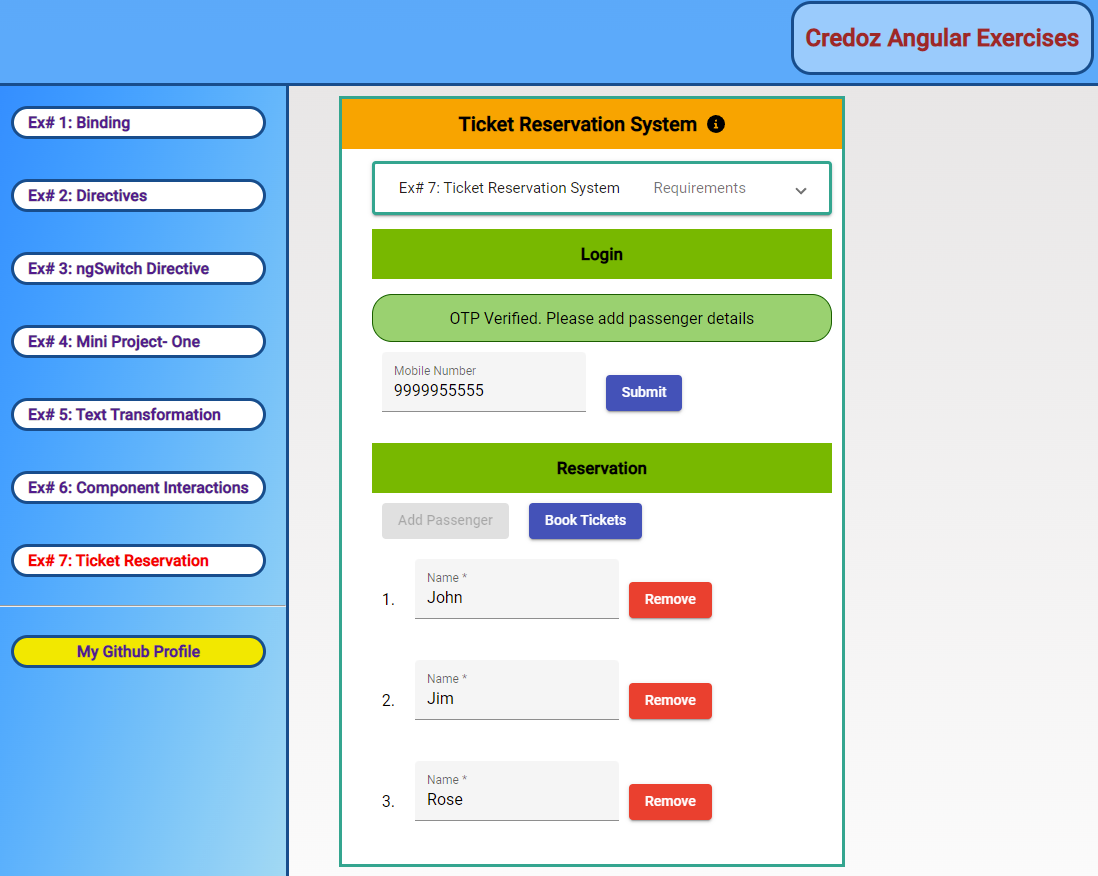
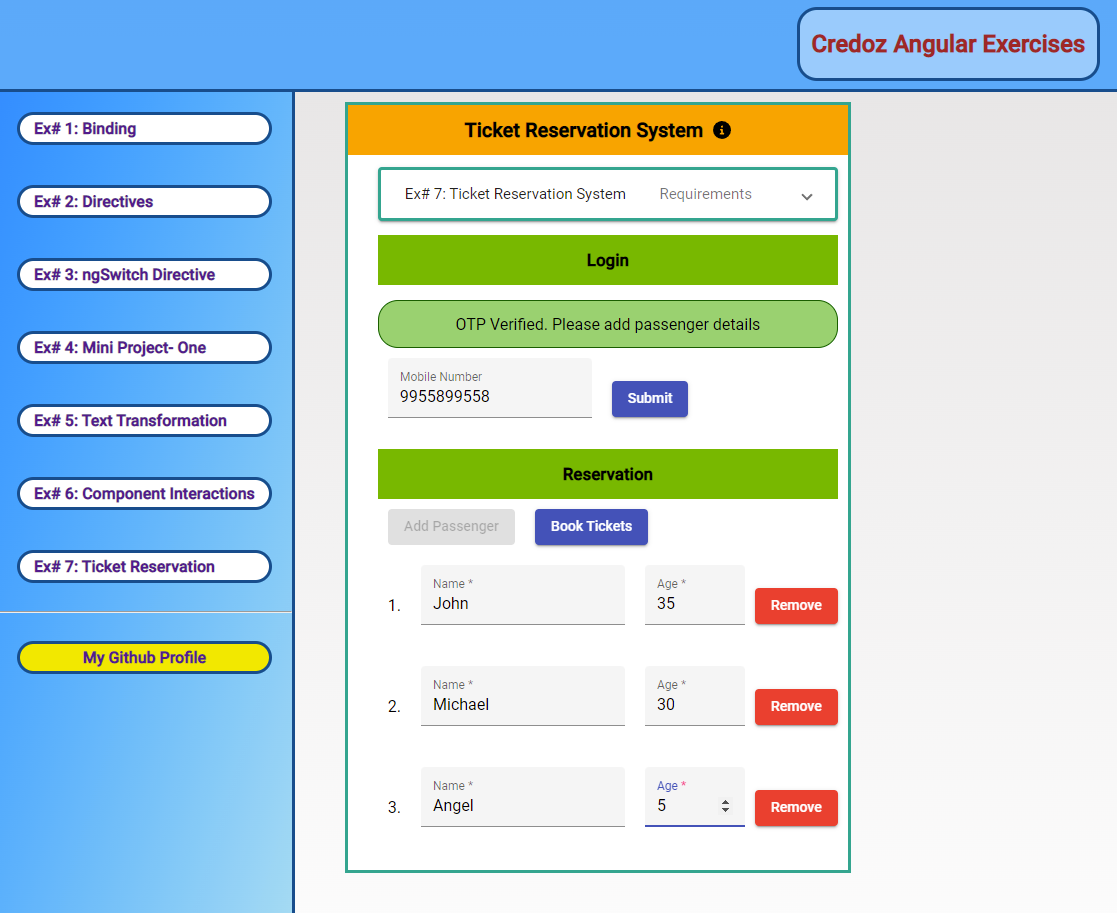
Completed the following -------------------------- 1. Ex7passengersComponent: Implemented FormBuilder service to accept age from the customer as a dynamic UI textbox control with the name. 2. README.md: Updated this document to reflect the changes to accept age from the customer with the screenshot 

diff --git a/src/app/codingexercises/ex7_ticketreservationsystem/ex7passengers/ex7passengers.component.ts b/src/app/codingexercises/ex7_ticketreservationsystem/ex7passengers/ex7passengers.component.ts
@@ -1,11 +1,10 @@
 import { Component, OnInit } from '@angular/core';
-import {
-  AbstractControl,
-  FormArray,
-  FormControl,
-  FormGroup,
-  Validators,
-} from '@angular/forms';
+import { FormArray, FormBuilder, FormGroup, Validators } from '@angular/forms';
+
+interface IPassengerDetails {
+  PassengerName: string;
+  PassengerAge: number;
+}
 
 @Component({
   selector: 'app-ex7passengers',
@@ -19,10 +18,12 @@ export class Ex7passengersComponent implements OnInit {
   errorMessage: string = '';
 
   bookingConfirmed: boolean;
-  ticketDetailsOfConfirmedPassengers: string[] = [];
+  ticketDetailsOfConfirmedPassengers: IPassengerDetails[] = [];
+
+  constructor(public formBuilder: FormBuilder) {}
 
   ngOnInit(): void {
-    this.passengerInputForm = new FormGroup({
+    this.passengerInputForm = this.formBuilder.group({
       passengerControls: new FormArray([]),
     });
   }
@@ -35,6 +36,7 @@ export class Ex7passengersComponent implements OnInit {
     this.userMessage = '';
     this.errorMessage = '';
     this.passengerInputForm.reset();
+    //Clears all the child FormGroup collection created by the FormBuilder.
     (<FormArray>this.passengerInputForm.get('passengerControls')).clear();
     this.ticketDetailsOfConfirmedPassengers = [];
   }
@@ -42,9 +44,9 @@ export class Ex7passengersComponent implements OnInit {
   /**
    * Returns the collection of controls added dynamically for adding passenger details.
    */
-  get getDynamicPassengerUIControls(): AbstractControl[] {
+  get passengerFormGroupCollection(): FormGroup[] {
     return (<FormArray>this.passengerInputForm.get('passengerControls'))
-      .controls;
+      .controls as FormGroup[];
   }
 
   /**
@@ -52,13 +54,15 @@ export class Ex7passengersComponent implements OnInit {
    */
   onPassengerAddClick() {
     this.errorMessage = '';
-    if (this.getDynamicPassengerUIControls.length <= 2) {
-      let dynamicNameControl = new FormControl(null, Validators.required);
+    if (this.passengerFormGroupCollection.length <= 2) {
       (<FormArray>this.passengerInputForm.get('passengerControls')).push(
-        dynamicNameControl
+        this.formBuilder.group({
+          dynPassengerName: ['', Validators.required],
+          dynAge: ['', Validators.required],
+        })
       );
     }
-    if (this.getDynamicPassengerUIControls.length == 3)
+    if (this.passengerFormGroupCollection.length == 3)
       this.errorMessage = 'Booking limited to 3 passengers per ticket.';
   }
 
@@ -74,9 +78,13 @@ export class Ex7passengersComponent implements OnInit {
       this.userMessage = 'Reservation confirmed. Ticket details below.';
       this.bookingConfirmed = true;
 
-      (this.passengerInputForm.value['passengerControls'] as string[]).forEach(
-        (passengerName) => {
-          this.ticketDetailsOfConfirmedPassengers.push(passengerName);
+      (this.passengerInputForm.value['passengerControls'] as any[]).forEach(
+        (formGroupData) => {
+          let passengerInformation: IPassengerDetails = {
+            PassengerName: formGroupData['dynPassengerName'],
+            PassengerAge: formGroupData['dynAge'],
+          };
+          this.ticketDetailsOfConfirmedPassengers.push(passengerInformation);
         }
       );
       this.passengerInputForm.reset();
@@ -105,10 +113,11 @@ export class Ex7passengersComponent implements OnInit {
 
   /**
    * Dynamic textbox event that is fired this control looses focus.
+   * @param dynamicFormGroup Each child FormGroup reference holding the name and the age textbox controls.
    */
-  onDynamicPassengerTextboxBlurEvent() {
+  onDynamicPassengerTextboxBlurEvent(dynamicFormGroup: FormGroup) {
     this.errorMessage = '';
-    if (this.passengerInputForm.invalid)
+    if (dynamicFormGroup.invalid)
       this.errorMessage = 'Please provide one more more passenger details';
   }
 }

diff --git a/src/app/codingexercises/ex7_ticketreservationsystem/ex7passengers/ex7passengers.component.html b/src/app/codingexercises/ex7_ticketreservationsystem/ex7passengers/ex7passengers.component.html
@@ -20,14 +20,14 @@
         color="primary"
         (click)="onPassengerAddClick()"
         type="button"
-        [disabled]="this.getDynamicPassengerUIControls.length == 3"
+        [disabled]="this.passengerFormGroupCollection.length == 3"
       >
         Add Passenger
       </button>
     </div>
     <div
       class="flex-item"
-      *ngIf="!bookingConfirmed && getDynamicPassengerUIControls.length > 0"
+      *ngIf="!bookingConfirmed && passengerFormGroupCollection.length > 0"
     >
       <button
         mat-raised-button
@@ -52,35 +52,61 @@
   <ng-container *ngIf="!this.bookingConfirmed">
     <div formArrayName="passengerControls">
       <div
-        class="flex-local-row-container"
         *ngFor="
-          let singlePassengerUIControl of getDynamicPassengerUIControls;
+          let singlePassengerFormGroup of passengerFormGroupCollection;
           index as i
         "
       >
-        <div class="flex-item">
-          <mat-label>{{ i + 1 }}. </mat-label>
-        </div>
-        <div class="flex-item">
-          <mat-form-field class="matInputField" appearance="fill">
-            <mat-label>Name</mat-label>
-            <input
-              matInput
-              placeholder="Name of the passenger"
-              autocomplete="off"
-              [formControlName]="i"
-              (blur)="onDynamicPassengerTextboxBlurEvent()"
-            />
-          </mat-form-field>
-        </div>
-        <button
-          mat-raised-button
-          color="warn"
-          (click)="onPassengerRemovedClick(i)"
-          type="button"
+        <div
+          [formGroup]="singlePassengerFormGroup"
+          class="flex-local-row-container"
         >
-          Remove
-        </button>
+          <div class="flex-item">
+            <mat-label>{{ i + 1 }}. </mat-label>
+          </div>
+          <div class="flex-item">
+            <mat-form-field class="matInputField" appearance="fill">
+              <mat-label>Name</mat-label>
+              <input
+                matInput
+                placeholder="Name"
+                autocomplete="off"
+                formControlName="dynPassengerName"
+                (blur)="
+                  onDynamicPassengerTextboxBlurEvent(singlePassengerFormGroup)
+                "
+                type="text"
+              />
+            </mat-form-field>
+          </div>
+          <div class="flex-item">
+            <mat-form-field
+              class="matInputField"
+              style="width: 100px"
+              appearance="fill"
+            >
+              <mat-label>Age</mat-label>
+              <input
+                matInput
+                placeholder="000"
+                autocomplete="off"
+                formControlName="dynAge"
+                (blur)="
+                  onDynamicPassengerTextboxBlurEvent(singlePassengerFormGroup)
+                "
+                type="number"
+              />
+            </mat-form-field>
+          </div>
+          <button
+            mat-raised-button
+            color="warn"
+            (click)="onPassengerRemovedClick(i)"
+            type="button"
+          >
+            Remove
+          </button>
+        </div>
       </div>
     </div>
   </ng-container>
@@ -97,9 +123,11 @@
         <mat-label>{{ i + 1 }}. </mat-label>
       </div>
       <div class="flex-item">
-        <span
-          >Passenger `{{ reservedPassengerName }}`'s ticket has been
-          confirmed.</span
+        <mat-label
+          >Name: `{{ reservedPassengerName.PassengerName }}` | Age: `{{
+            reservedPassengerName.PassengerAge
+          }}`
+          ></mat-label
         >
       </div>
     </div>

diff --git a/src/app/codingexercises/ex7_ticketreservationsystem/ex7ticketreservation.component.html b/src/app/codingexercises/ex7_ticketreservationsystem/ex7ticketreservation.component.html
@@ -21,10 +21,10 @@
             <span class="subHeading">Reservation Component</span>
             <li class="formatListTag">
               This component will accept input from the user to add passengers
-              dynamically to reserve tickets using the concept `FormArray`.
+              dynamically to reserve tickets using the concept `FormArray` and `FormBuilder`.
             </li>
             <li class="formatListTag">
-              Add a new passenger using the 'Add Passenger' button.
+              Add a new passenger using the 'Add Passenger' button to accept their name and age.
             </li>
             <li class="formatListTag">
               Confirm the booking using the 'Book Tickets' button. Additionally,

diff --git a/README.md b/README.md
@@ -102,8 +102,8 @@ Please find the description of each Angular exercise along with its detailed req
   - Angular Concept: Dynamic forms
   - Requirements
     - Reservation Component
-      - This component will accept input from the user to add passengers dynamically to reserve tickets using the concept `FormArray`.
-      - Add a new passenger using the 'Add Passenger' button.
+      - This component will accept input from the user to add passengers dynamically to reserve tickets using the concept `FormArray` and `FormBuilder`.
+      - Add a new passenger using the 'Add Passenger' button to accept their name and age.
       - Confirm the booking using the 'Book Tickets' button. Additionally, display the ticket details as a summary.
       - To rebook tickets, add a new button called 'Make new reservations'
       - Limit a ticket to have a maximum of 3 passengers.
